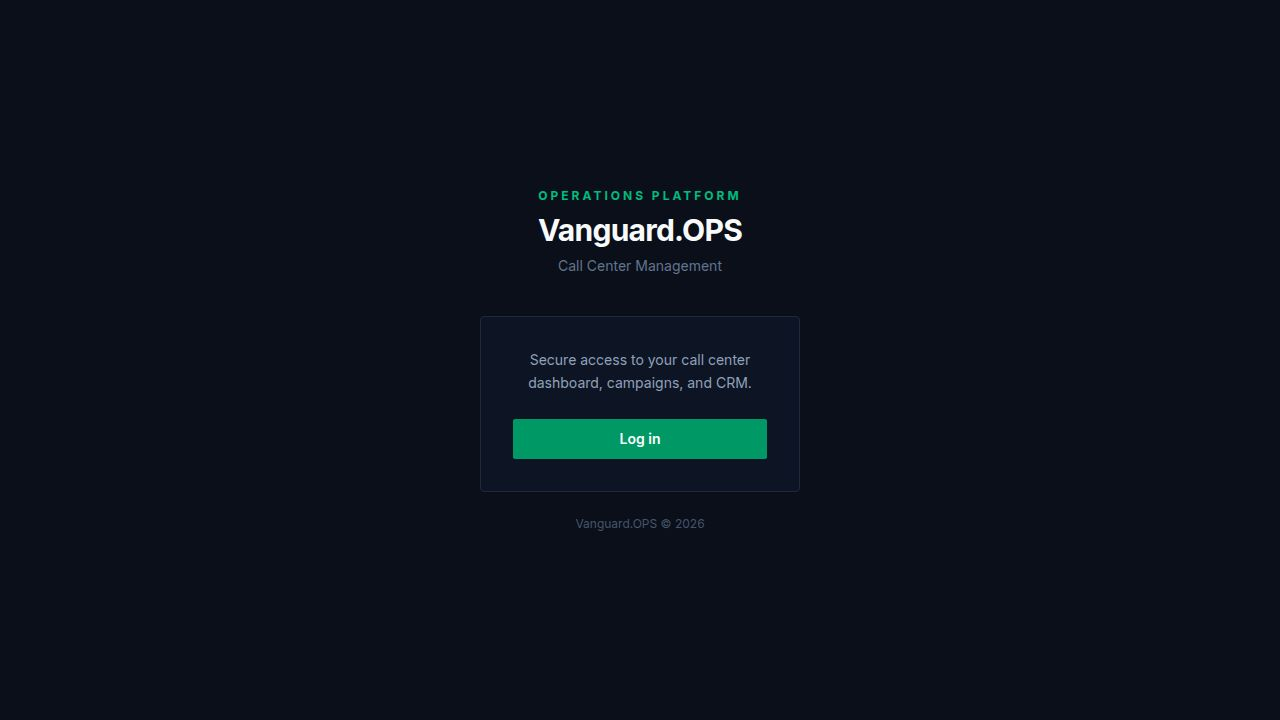
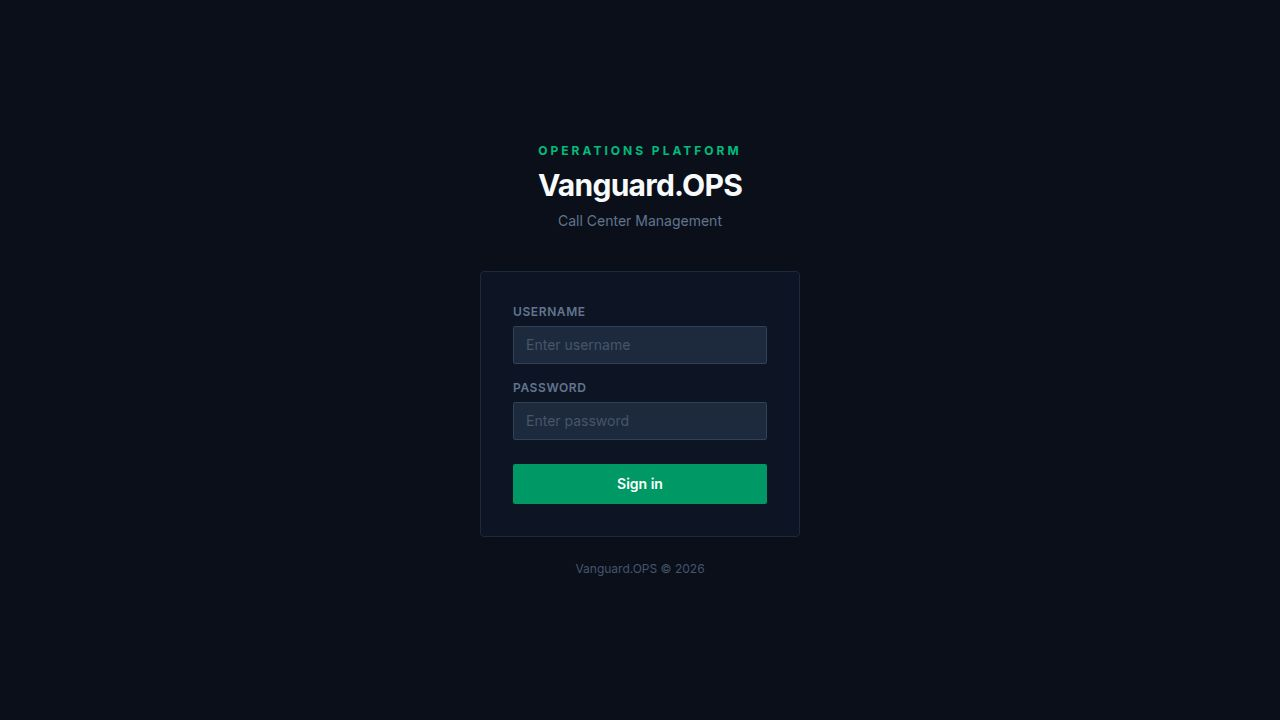
Add note functionality to call logs and improve download button visibility
Add a StickyNote icon to call log entries to add, view, and edit notes. Adjust minimum width of the audio player to improve download button visibility.

Replit-Commit-Author: Agent
Replit-Commit-Session-Id: c59f59ed-4248-46bd-9a38-9bb530efb2ee
Replit-Commit-Checkpoint-Type: full_checkpoint
Replit-Commit-Event-Id: bc59cae4-c3ed-4e9c-b429-b75c1070f9c8
Replit-Commit-Screenshot-Url: https://storage.googleapis.com/screenshot-production-us-central1/7ca5c311-75d0-4d3e-a3ed-9b642ae72c70/c59f59ed-4248-46bd-9a38-9bb530efb2ee/EH89Aee
Replit-Helium-Checkpoint-Created: true

diff --git a/artifacts/call-center/src/pages/calls.tsx b/artifacts/call-center/src/pages/calls.tsx
@@ -4,13 +4,14 @@ import { Card, CardContent } from "@/components/ui/card";
 import { Table, TableBody, TableCell, TableHead, TableHeader, TableRow } from "@/components/ui/table";
 import { Badge } from "@/components/ui/badge";
 import { Skeleton } from "@/components/ui/skeleton";
-import { PhoneIncoming, PhoneOutgoing, Play, Pause, Search, User, Mail, Tag, AlertCircle, ChevronRight, Phone, Loader2, Download, Trash2, FileText, Check } from "lucide-react";
+import { PhoneIncoming, PhoneOutgoing, Play, Pause, Search, User, Mail, Tag, AlertCircle, ChevronRight, Phone, Loader2, Download, Trash2, FileText, Check, StickyNote } from "lucide-react";
 import { Input } from "@/components/ui/input";
 import { Select, SelectContent, SelectItem, SelectTrigger, SelectValue } from "@/components/ui/select";
 import { Dialog, DialogContent, DialogHeader, DialogTitle } from "@/components/ui/dialog";
 import { AlertDialog, AlertDialogAction, AlertDialogCancel, AlertDialogContent, AlertDialogDescription, AlertDialogFooter, AlertDialogHeader, AlertDialogTitle } from "@/components/ui/alert-dialog";
 import { Button } from "@/components/ui/button";
 import { Separator } from "@/components/ui/separator";
+import { Textarea } from "@/components/ui/textarea";
 
 /** Format an E.164 number to a human-readable North American format. */
 function formatPhone(raw: string | null | undefined): string {
@@ -121,7 +122,7 @@ function AudioPlayer({ src, large = false }: { src: string; large?: boolean }) {
   }
 
   return (
-    <div className="flex items-center gap-1.5" style={{ width: 180 }}>
+    <div className="flex items-center gap-1.5" style={{ minWidth: 210 }}>
       <button
         onClick={toggle}
         className="shrink-0 w-5 h-5 flex items-center justify-center rounded-full bg-muted hover:bg-muted/60 border border-border/60 transition-colors"
@@ -172,6 +173,101 @@ function PriorityBadge({ priority }: { priority: string | null | undefined }) {
     <Badge variant="outline" className={`text-xs font-medium ${styles[priority] ?? "bg-secondary text-muted-foreground"}`}>
       {priority}
     </Badge>
+  );
+}
+
+function NoteIconButton({ callId, note, onOpen }: {
+  callId: number;
+  note: string | null;
+  onOpen: (target: { id: number; note: string | null }) => void;
+}) {
+  const hasNote = !!note;
+  return (
+    <button
+      onClick={(e) => { e.stopPropagation(); onOpen({ id: callId, note }); }}
+      className={`p-1 rounded transition-all ${hasNote ? "text-amber-400 hover:text-amber-300 opacity-100" : "text-muted-foreground hover:text-amber-400 opacity-0 group-hover:opacity-100"}`}
+      title={hasNote ? "View note" : "Add note"}
+    >
+      <StickyNote className="h-3.5 w-3.5" />
+    </button>
+  );
+}
+
+function NoteDialog({ callId, initialNote, open, onClose, onSaved }: {
+  callId: number;
+  initialNote: string | null;
+  open: boolean;
+  onClose: () => void;
+  onSaved: (callId: number, note: string | null) => void;
+}) {
+  const [draft, setDraft] = useState(initialNote ?? "");
+  const [saving, setSaving] = useState(false);
+  const [editMode, setEditMode] = useState(!initialNote);
+
+  useEffect(() => {
+    setDraft(initialNote ?? "");
+    setEditMode(!initialNote);
+  }, [callId, initialNote, open]);
+
+  async function save() {
+    setSaving(true);
+    try {
+      await fetch(`/api/call-logs/${callId}/notes`, {
+        method: "PATCH",
+        headers: { "Content-Type": "application/json" },
+        body: JSON.stringify({ notes: draft.trim() || null }),
+      });
+      onSaved(callId, draft.trim() || null);
+      setEditMode(false);
+      if (!draft.trim()) onClose();
+    } finally {
+      setSaving(false);
+    }
+  }
+
+  const isReadMode = !!initialNote && !editMode;
+  const dialogTitle = isReadMode ? "Note" : initialNote ? "Edit Note" : "Add Note";
+
+  return (
+    <Dialog open={open} onOpenChange={(o) => !o && onClose()}>
+      <DialogContent className="max-w-md">
+        <DialogHeader>
+          <DialogTitle className="flex items-center gap-2 text-sm font-semibold uppercase tracking-wider">
+            <StickyNote className="h-4 w-4 text-amber-400" />
+            {dialogTitle}
+          </DialogTitle>
+        </DialogHeader>
+        {isReadMode && (
+          <div className="space-y-4">
+            <div className="text-sm text-foreground leading-relaxed whitespace-pre-wrap bg-muted/30 border border-border/40 rounded-lg p-4 min-h-[80px]">
+              {initialNote}
+            </div>
+            <div className="flex justify-end gap-2">
+              <Button variant="outline" size="sm" onClick={() => setEditMode(true)}>Edit</Button>
+              <Button variant="ghost" size="sm" onClick={onClose}>Close</Button>
+            </div>
+          </div>
+        )}
+        {!isReadMode && (
+          <div className="space-y-4">
+            <Textarea
+              value={draft}
+              onChange={e => setDraft(e.target.value)}
+              placeholder="Enter a note about this call..."
+              rows={5}
+              className="resize-none bg-background/60"
+              autoFocus
+            />
+            <div className="flex justify-end gap-2">
+              <Button variant="ghost" size="sm" onClick={onClose}>Cancel</Button>
+              <Button size="sm" onClick={save} disabled={saving}>
+                {saving ? "Saving..." : "Save"}
+              </Button>
+            </div>
+          </div>
+        )}
+      </DialogContent>
+    </Dialog>
   );
 }
 
@@ -351,6 +447,8 @@ export default function Calls() {
   const [confirmDeleteId, setConfirmDeleteId] = useState<number | null>(null);
   const [clearConfirm, setClearConfirm] = useState(false);
   const [isClearing, setIsClearing] = useState(false);
+  const [noteTarget, setNoteTarget] = useState<{ id: number; note: string | null } | null>(null);
+  const [localNotes, setLocalNotes] = useState<Record<number, string | null>>({});
 
   const { data: calls, isLoading, refetch } = useListCallLogs({
     direction: direction === "all" ? undefined : direction,
@@ -475,20 +573,21 @@ export default function Calls() {
               <TableHead>Recording</TableHead>
               <TableHead className="w-8"></TableHead>
               <TableHead className="w-8"></TableHead>
+              <TableHead className="w-8"></TableHead>
             </TableRow>
           </TableHeader>
           <TableBody>
             {isLoading ? (
               [...Array(5)].map((_, i) => (
                 <TableRow key={i} className="border-border">
-                  {[...Array(11)].map((_, j) => (
+                  {[...Array(12)].map((_, j) => (
                     <TableCell key={j}><Skeleton className="h-4 w-full" /></TableCell>
                   ))}
                 </TableRow>
               ))
             ) : filtered?.length === 0 ? (
               <TableRow>
-                <TableCell colSpan={11} className="text-center py-12 text-muted-foreground">
+                <TableCell colSpan={12} className="text-center py-12 text-muted-foreground">
                   No call logs found.
                 </TableCell>
               </TableRow>
@@ -562,6 +661,13 @@ export default function Calls() {
                   )}
                 </TableCell>
                 <TableCell onClick={(e) => e.stopPropagation()}>
+                  <NoteIconButton
+                    callId={call.id}
+                    note={call.id in localNotes ? localNotes[call.id] : ((call as any).notes ?? null)}
+                    onOpen={setNoteTarget}
+                  />
+                </TableCell>
+                <TableCell onClick={(e) => e.stopPropagation()}>
                   <button
                     onClick={(e) => { e.stopPropagation(); setConfirmDeleteId(call.id); }}
                     disabled={deletingId === call.id}
@@ -585,10 +691,24 @@ export default function Calls() {
         call={selectedCall}
         open={!!selectedCall}
         onClose={() => setSelectedCall(null)}
-        onNotesUpdate={(id, notes) =>
-          setSelectedCall((prev: any) => prev?.id === id ? { ...prev, notes } : prev)
-        }
+        onNotesUpdate={(id, notes) => {
+          setSelectedCall((prev: any) => prev?.id === id ? { ...prev, notes } : prev);
+          setLocalNotes(prev => ({ ...prev, [id]: notes }));
+        }}
       />
+
+      {noteTarget && (
+        <NoteDialog
+          callId={noteTarget.id}
+          initialNote={noteTarget.note}
+          open={!!noteTarget}
+          onClose={() => setNoteTarget(null)}
+          onSaved={(id, note) => {
+            setLocalNotes(prev => ({ ...prev, [id]: note }));
+            setNoteTarget(prev => prev?.id === id ? { ...prev, note } : prev);
+          }}
+        />
+      )}
 
       <AlertDialog open={confirmDeleteId !== null} onOpenChange={(o) => !o && setConfirmDeleteId(null)}>
         <AlertDialogContent className="bg-card border-border">